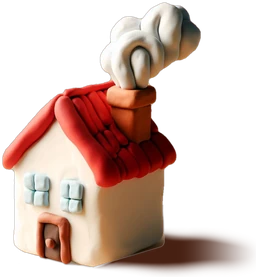
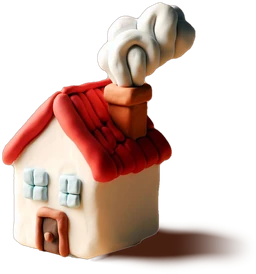
fix: follow the wall's rounded corner and let the shadow fade out fully
Trace the wall's lower-right corner instead of a straight ground cut, fill
the shadow layer behind the wall so no pale outline appears, and crop with
no visible alpha on the edges so the shadow no longer ends in a vertical line.

Claude-Session: https://claude.ai/code/session_01T4gzLYjrmPYrvPEheweNQY

Changed region(s): [[0.0, 0.0, 0.9688, 0.9927], [0.0312, 0.8175, 0.0625, 0.8467]]

diff --git a/src/components/house-mark.tsx b/src/components/house-mark.tsx
@@ -11,7 +11,7 @@ import Image, { type ImageLoaderProps } from 'next/image';
  * smallest one that covers the requested width, so nothing is re-encoded.
  * The untouched originals are in `public/brand/fasi-source/`.
  */
-const SIZES = [256, 512, 813] as const;
+const SIZES = [256, 512, 835] as const;
 
 function houseLoader({ width }: ImageLoaderProps) {
   const size = SIZES.find((s) => s >= width) ?? SIZES[SIZES.length - 1];
@@ -24,8 +24,8 @@ export function HouseMark({ className }: Readonly<{ className?: string }>) {
       loader={houseLoader}
       src="casa-plastelina"
       alt=""
-      width={813}
-      height={879}
+      width={835}
+      height={893}
       sizes="(min-width: 768px) 320px, 70vw"
       className={`object-contain ${className ?? ''}`}
     />

diff --git a/DESIGN.md b/DESIGN.md
@@ -135,7 +135,7 @@ Do not apply 20px radii to dense elements (table cells, calendar bars): it reads
 
 ## Illustration
 
-- The house is FASI's plasticine photo (`public/brand/`, cut out with its soft shadow kept, WebP in 813/512/256 px; originals in `public/brand/fasi-source/`), rendered by `src/components/house-mark.tsx`. It is the wordmark mark, the landing page illustration and the empty-state mark ("No queda res pendent").
+- The house is FASI's plasticine photo (`public/brand/`, cut out with its soft shadow kept, WebP in 835/512/256 px; originals in `public/brand/fasi-source/`), rendered by `src/components/house-mark.tsx`. It is the wordmark mark, the landing page illustration and the empty-state mark ("No queda res pendent").
 - **TODO before launch: confirm FASI's permission to use the image**, or replace it with a commissioned illustration in the same clay style.
 
 ## Anti-Patterns
